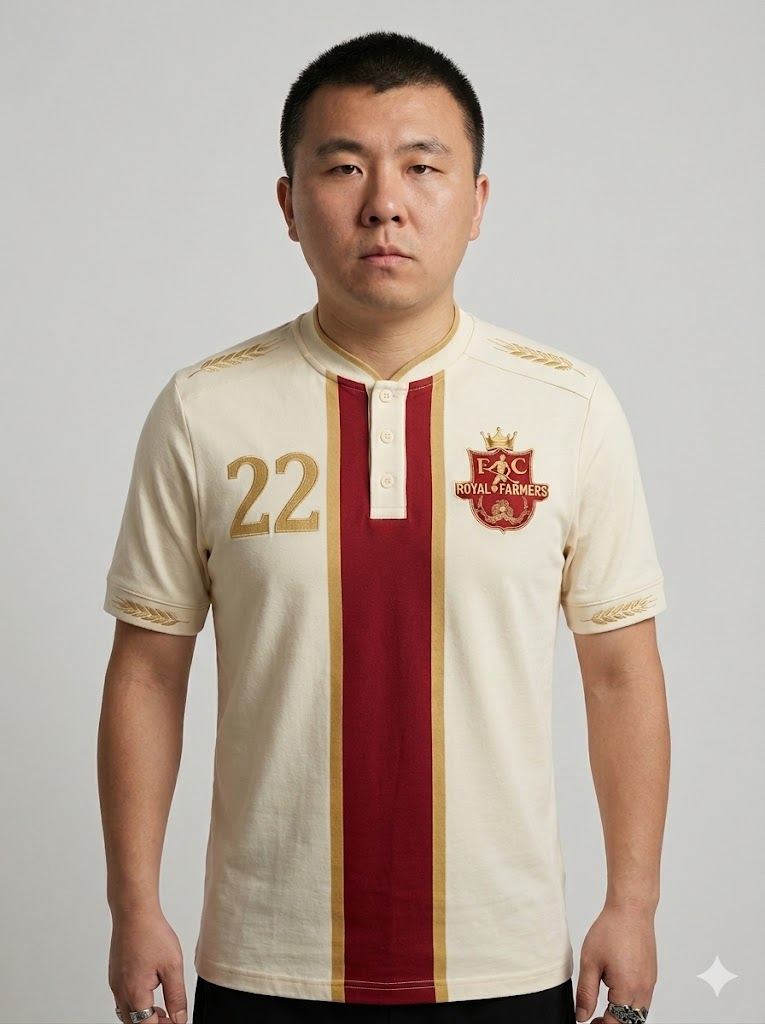
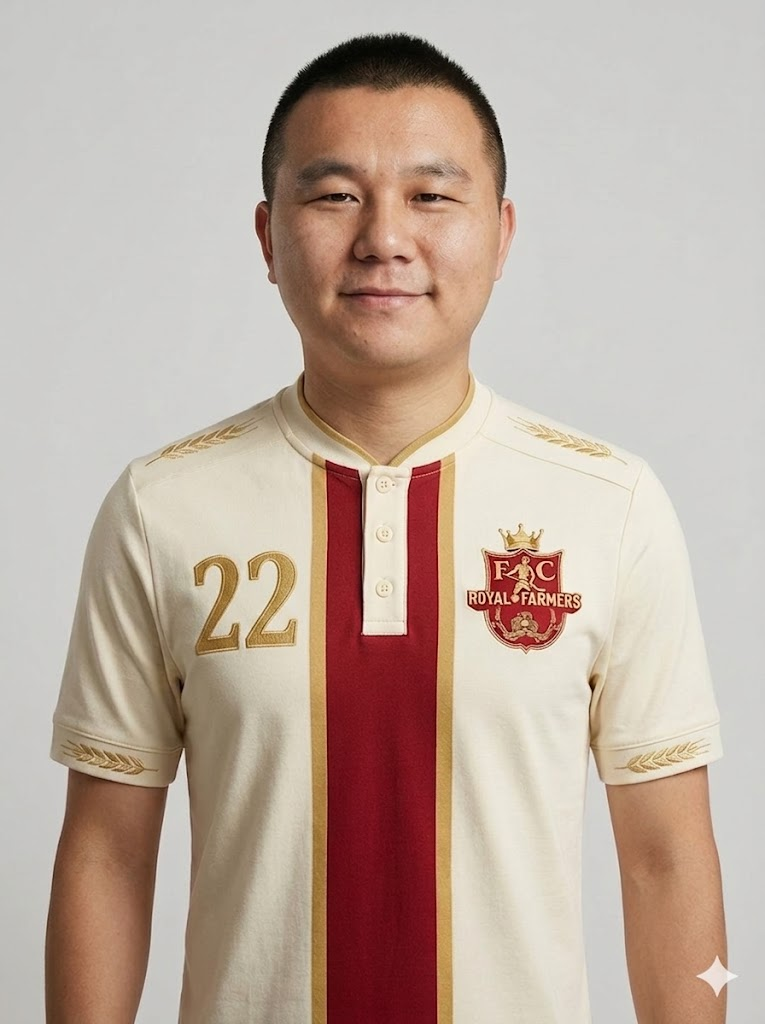
feat: 照片同步+JOE主页+化学反应bug修复+SUPER FARMER排序
照片更新（9张新增/重命名）：
- 新增 11号杨勇、15号陈彦孚、16号段晓敏、21号赵威、23号夏泉
  31号大宝、83号艾海提 的球员照片
- 22号麦超 → 1号麦超（球衣号更正）
- 41号老吴 → 41号吴能（真实姓名）
- data.jsx 中所有 photo 路径同步更新

JOE 个人主页修复：
- 全局统一 "Joe" → "JOE"（FIXTURES × 7处、月度助攻榜、PLAYER_CHEMISTRY）
- PLAYER_CHEMISTRY 中合并重复的 Joe/JOE 条目 → 助攻统计正确
- num 补全为 "37"

化学反应 bestP=worstP 修复：
- data.jsx：Python脚本清除11条仅有单一搭档导致最高=最低的错误 worstP
  （强尼二世/曹峰/朱艺华/李浩等）
- components.jsx：展示层额外防御判断（worstP.name !== bestP.name 才渲染）

优秀农民工 · SUPER FARMER 排序：
- PlayersCarousel 按 apps 出场数降序排列
- 10号姜珂固定置于最后（队长压轴）

diff --git a/data.jsx b/data.jsx
@@ -12,9 +12,9 @@ const PLAYERS = [
   { num: 4, name: "夏浩", pos: "后卫", birth: "—", nation: "中国", apps: 153, goals: 4, assists: 6, rating: 190.0, seasons: [{year:"2021",apps:48,goals:1,assists:1,rating:1.54},{year:"2022",apps:39,goals:1,assists:1,rating:0.79},{year:"2023",apps:19,goals:0,assists:0,rating:1.16},{year:"2024",apps:13,goals:0,assists:1,rating:1.31},{year:"2025",apps:26,goals:2,assists:1,rating:1.77},{year:"2026",apps:8,goals:0,assists:2,rating:1.5}], photo: "assets/players/14号夏浩.jpeg" },
   { num: 56, name: "朱寿卿", pos: "后卫", birth: "—", nation: "中国", apps: 76, goals: 7, assists: 31, rating: 79.0, seasons: [{year:"2021",apps:44,goals:6,assists:19,rating:1.41},{year:"2023",apps:6,goals:0,assists:2,rating:0.33},{year:"2024",apps:6,goals:1,assists:2,rating:0.67},{year:"2025",apps:7,goals:0,assists:2,rating:1.57},{year:"2026",apps:13,goals:0,assists:6,rating:1.46}], photo: "assets/players/56号朱寿卿.jpeg" },
   { num: 44, name: "倪海", pos: "前卫", birth: "—", nation: "中国", apps: 87, goals: 114, assists: 147, rating: 107.0, seasons: [{year:"2021",apps:3,goals:1,assists:1,rating:3.0},{year:"2023",apps:7,goals:13,assists:7,rating:1.86},{year:"2024",apps:16,goals:16,assists:19,rating:1.62},{year:"2025",apps:45,goals:57,assists:92,rating:1.31},{year:"2026",apps:16,goals:27,assists:28,rating:1.12}], photo: "assets/players/44号倪海.jpeg" },
-  { num: 41, name: "老吴", pos: "前卫", birth: "—", nation: "中国", apps: 17, goals: 5, assists: 10, rating: 21.0, seasons: [{year:"2021",apps:0,goals:0,assists:0,rating:null},{year:"2022",apps:0,goals:0,assists:0,rating:null},{year:"2023",apps:0,goals:0,assists:0,rating:null},{year:"2024",apps:0,goals:0,assists:0,rating:null},{year:"2025",apps:6,goals:3,assists:4,rating:2.33},{year:"2026",apps:11,goals:2,assists:6,rating:0.64}], photo: "assets/players/41号老吴.jpeg" },
+  { num: 41, name: "老吴", pos: "前卫", birth: "—", nation: "中国", apps: 17, goals: 5, assists: 10, rating: 21.0, seasons: [{year:"2021",apps:0,goals:0,assists:0,rating:null},{year:"2022",apps:0,goals:0,assists:0,rating:null},{year:"2023",apps:0,goals:0,assists:0,rating:null},{year:"2024",apps:0,goals:0,assists:0,rating:null},{year:"2025",apps:6,goals:3,assists:4,rating:2.33},{year:"2026",apps:11,goals:2,assists:6,rating:0.64}], photo: "assets/players/41号吴能.jpeg" },
   // ---- Remaining squad ----
-  { num: 1, name: "麦超", pos: "门将", birth: "—", nation: "中国", apps: 279, goals: 4, assists: 6, rating: 299.0, seasons: [{year:"2021",apps:24,goals:0,assists:0,rating:1.0},{year:"2022",apps:68,goals:1,assists:2,rating:1.41},{year:"2023",apps:78,goals:0,assists:2,rating:1.23},{year:"2024",apps:51,goals:2,assists:0,rating:0.8},{year:"2025",apps:38,goals:1,assists:2,rating:1.11},{year:"2026",apps:20,goals:0,assists:0,rating:1.7}], photo: "assets/players/22号麦超.jpeg" },
+  { num: 1, name: "麦超", pos: "门将", birth: "—", nation: "中国", apps: 279, goals: 4, assists: 6, rating: 299.0, seasons: [{year:"2021",apps:24,goals:0,assists:0,rating:1.0},{year:"2022",apps:68,goals:1,assists:2,rating:1.41},{year:"2023",apps:78,goals:0,assists:2,rating:1.23},{year:"2024",apps:51,goals:2,assists:0,rating:0.8},{year:"2025",apps:38,goals:1,assists:2,rating:1.11},{year:"2026",apps:20,goals:0,assists:0,rating:1.7}], photo: "assets/players/1号麦超.jpeg" },
   { num: 3, name: "老徐", pos: "后卫", birth: "—", nation: "中国", apps: 263, goals: 115, assists: 137, rating: 304.0, seasons: [{year:"2021",apps:7,goals:0,assists:0,rating:-0.14},{year:"2022",apps:45,goals:19,assists:19,rating:1.09},{year:"2023",apps:88,goals:41,assists:56,rating:1.49},{year:"2024",apps:84,goals:35,assists:36,rating:1.05},{year:"2025",apps:27,goals:17,assists:22,rating:1.37},{year:"2026",apps:12,goals:3,assists:4,rating:1.83}] },
   { num: 2, name: "曹峰", pos: "后卫", birth: "1976", nation: "中国", apps: 233, goals: 57, assists: 62, rating: 289.0, seasons: [{year:"2021",apps:63,goals:15,assists:16,rating:1.37},{year:"2022",apps:74,goals:15,assists:15,rating:1.34},{year:"2023",apps:49,goals:16,assists:12,rating:1.16},{year:"2024",apps:30,goals:3,assists:6,rating:0.73},{year:"2025",apps:17,goals:8,assists:13,rating:1.47}] },
   { num: 77, name: "张伟", pos: "前卫", birth: "—", nation: "中国", apps: 226, goals: 147, assists: 84, rating: 200.0, seasons: [{year:"2021",apps:40,goals:15,assists:11,rating:1.0},{year:"2022",apps:41,goals:30,assists:9,rating:0.63},{year:"2023",apps:37,goals:18,assists:6,rating:0.57},{year:"2024",apps:44,goals:29,assists:19,rating:1.36},{year:"2025",apps:41,goals:37,assists:25,rating:1.29},{year:"2026",apps:23,goals:18,assists:14,rating:1.61}], photo: "assets/players/17号张伟.jpeg" },
@@ -30,22 +30,22 @@ const PLAYERS = [
   { num: 48, name: "李渊", pos: "前卫", birth: "—", nation: "中国", apps: 108, goals: 78, assists: 58, rating: 124.0, seasons: [{year:"2021",apps:39,goals:35,assists:24,rating:1.38},{year:"2022",apps:17,goals:7,assists:5,rating:0.88},{year:"2023",apps:34,goals:28,assists:20,rating:1.12},{year:"2024",apps:15,goals:6,assists:9,rating:0.87},{year:"2025",apps:2,goals:2,assists:0,rating:2.0},{year:"2026",apps:1,goals:0,assists:0,rating:1.0}] },
   { num: 24, name: "陆晓巍", pos: "后卫", birth: "—", nation: "中国", apps: 101, goals: 4, assists: 14, rating: 91.0, seasons: [{year:"2021",apps:11,goals:0,assists:0,rating:0.45},{year:"2022",apps:14,goals:0,assists:5,rating:1.43},{year:"2023",apps:17,goals:1,assists:2,rating:1.0},{year:"2024",apps:33,goals:1,assists:4,rating:0.94},{year:"2025",apps:20,goals:2,assists:2,rating:0.9},{year:"2026",apps:6,goals:0,assists:1,rating:0.67}], photo: "assets/players/24号陆晓巍.jpeg" },
   { num: 88, name: "王积鹏", pos: "后卫", birth: "—", nation: "中国", apps: 91, goals: 40, assists: 23, rating: 110.0, seasons: [{year:"2021",apps:25,goals:10,assists:13,rating:1.52},{year:"2022",apps:15,goals:11,assists:5,rating:0.87},{year:"2023",apps:32,goals:14,assists:2,rating:1.16},{year:"2024",apps:15,goals:4,assists:1,rating:1.13},{year:"2025",apps:3,goals:1,assists:1,rating:1.67},{year:"2026",apps:1,goals:0,assists:1,rating:1.0}], photo: "assets/players/88号王积鹏.jpeg" },
-  { num: 21, name: "赵威", pos: "后卫", birth: "—", nation: "中国", apps: 88, goals: 23, assists: 20, rating: 53.0, seasons: [{year:"2021",apps:29,goals:6,assists:7,rating:0.72},{year:"2022",apps:15,goals:7,assists:5,rating:0.6},{year:"2023",apps:12,goals:2,assists:3,rating:0.17},{year:"2024",apps:16,goals:5,assists:3,rating:0.62},{year:"2025",apps:7,goals:3,assists:1,rating:1.57},{year:"2026",apps:9,goals:0,assists:1,rating:0.11}] },
+  { num: 21, name: "赵威", pos: "后卫", birth: "—", nation: "中国", apps: 88, goals: 23, assists: 20, rating: 53.0, seasons: [{year:"2021",apps:29,goals:6,assists:7,rating:0.72},{year:"2022",apps:15,goals:7,assists:5,rating:0.6},{year:"2023",apps:12,goals:2,assists:3,rating:0.17},{year:"2024",apps:16,goals:5,assists:3,rating:0.62},{year:"2025",apps:7,goals:3,assists:1,rating:1.57},{year:"2026",apps:9,goals:0,assists:1,rating:0.11}], photo: "assets/players/21号赵威.jpeg" },
   { num: 43, name: "傅于", pos: "后卫", birth: "—", nation: "中国", apps: 85, goals: 15, assists: 36, rating: 88.0, seasons: [{year:"2021",apps:20,goals:4,assists:9,rating:0.25},{year:"2022",apps:44,goals:6,assists:18,rating:1.41},{year:"2023",apps:20,goals:5,assists:9,rating:1.0},{year:"2024",apps:1,goals:0,assists:0,rating:1.0}] },
   { num: 17, name: "童超", pos: "前卫", birth: "—", nation: "中国", apps: 89, goals: 76, assists: 76, rating: 105.0, seasons: [{year:"2021",apps:39,goals:37,assists:39,rating:1.38},{year:"2022",apps:23,goals:18,assists:10,rating:1.43},{year:"2023",apps:5,goals:1,assists:2,rating:1.0},{year:"2024",apps:10,goals:9,assists:15,rating:0.8},{year:"2025",apps:7,goals:6,assists:8,rating:0.71},{year:"2026",apps:5,goals:5,assists:2,rating:0.6}] },
-  { num: 11, name: "杨勇", pos: "后卫", birth: "—", nation: "中国", apps: 80, goals: 16, assists: 22, rating: 100.0, seasons: [{year:"2021",apps:28,goals:4,assists:9,rating:1.89},{year:"2022",apps:35,goals:7,assists:8,rating:1.26},{year:"2023",apps:15,goals:5,assists:5,rating:0.33},{year:"2024",apps:2,goals:0,assists:0,rating:-1.0}] },
-  { num: 23, name: "夏泉", pos: "后卫", birth: "—", nation: "中国", apps: 80, goals: 17, assists: 33, rating: 75.0, seasons: [{year:"2021",apps:41,goals:5,assists:19,rating:1.1},{year:"2022",apps:21,goals:3,assists:8,rating:0.9},{year:"2023",apps:9,goals:6,assists:4,rating:1.0},{year:"2024",apps:5,goals:2,assists:1,rating:1.0},{year:"2025",apps:3,goals:1,assists:1,rating:-1.0},{year:"2026",apps:1,goals:0,assists:0,rating:3.0}] },
-  { num: 15, name: "陈彦孚", pos: "前锋", birth: "1988", nation: "中国", apps: 78, goals: 85, assists: 48, rating: 114.0, seasons: [{year:"2021",apps:31,goals:46,assists:20,rating:1.52},{year:"2022",apps:39,goals:28,assists:22,rating:1.56},{year:"2023",apps:8,goals:11,assists:6,rating:0.75}] },
+  { num: 11, name: "杨勇", pos: "后卫", birth: "—", nation: "中国", apps: 80, goals: 16, assists: 22, rating: 100.0, seasons: [{year:"2021",apps:28,goals:4,assists:9,rating:1.89},{year:"2022",apps:35,goals:7,assists:8,rating:1.26},{year:"2023",apps:15,goals:5,assists:5,rating:0.33},{year:"2024",apps:2,goals:0,assists:0,rating:-1.0}], photo: "assets/players/11号杨勇.jpeg" },
+  { num: 23, name: "夏泉", pos: "后卫", birth: "—", nation: "中国", apps: 80, goals: 17, assists: 33, rating: 75.0, seasons: [{year:"2021",apps:41,goals:5,assists:19,rating:1.1},{year:"2022",apps:21,goals:3,assists:8,rating:0.9},{year:"2023",apps:9,goals:6,assists:4,rating:1.0},{year:"2024",apps:5,goals:2,assists:1,rating:1.0},{year:"2025",apps:3,goals:1,assists:1,rating:-1.0},{year:"2026",apps:1,goals:0,assists:0,rating:3.0}], photo: "assets/players/23号夏泉.jpeg" },
+  { num: 15, name: "陈彦孚", pos: "前锋", birth: "1988", nation: "中国", apps: 78, goals: 85, assists: 48, rating: 114.0, seasons: [{year:"2021",apps:31,goals:46,assists:20,rating:1.52},{year:"2022",apps:39,goals:28,assists:22,rating:1.56},{year:"2023",apps:8,goals:11,assists:6,rating:0.75}], photo: "assets/players/15号陈彦孚.jpeg" },
   { num: 29, name: "刘洋", pos: "前卫", birth: "—", nation: "中国", apps: 83, goals: 212, assists: 71, rating: 146.0, seasons: [{year:"2021",apps:15,goals:36,assists:10,rating:1.27},{year:"2022",apps:17,goals:45,assists:11,rating:2.41},{year:"2023",apps:14,goals:28,assists:9,rating:1.93},{year:"2024",apps:19,goals:40,assists:13,rating:1.84},{year:"2025",apps:12,goals:49,assists:16,rating:2.0},{year:"2026",apps:6,goals:14,assists:12,rating:1.67}] },
   { num: 32, name: "朱艺华", pos: "后卫", birth: "—", nation: "中国", apps: 74, goals: 2, assists: 3, rating: 51.0, seasons: [{year:"2021",apps:8,goals:0,assists:0,rating:-0.25},{year:"2022",apps:24,goals:0,assists:0,rating:1.21},{year:"2023",apps:29,goals:2,assists:2,rating:0.45},{year:"2024",apps:13,goals:0,assists:1,rating:0.85}] },
   { num: 68, name: "王刚", pos: "后卫", birth: "—", nation: "中国", apps: 71, goals: 4, assists: 12, rating: 73.0, seasons: [{year:"2021",apps:22,goals:2,assists:1,rating:1.41},{year:"2022",apps:16,goals:1,assists:8,rating:1.0},{year:"2023",apps:15,goals:1,assists:1,rating:1.07},{year:"2024",apps:10,goals:0,assists:0,rating:-0.2},{year:"2025",apps:8,goals:0,assists:2,rating:1.5}], photo: "assets/players/68号王刚.jpeg" },
   { num: 14, name: "陆扬", pos: "前锋", birth: "—", nation: "中国", apps: 54, goals: 45, assists: 19, rating: 59.0, seasons: [{year:"2021",apps:26,goals:31,assists:12,rating:1.12},{year:"2022",apps:24,goals:12,assists:6,rating:1.33},{year:"2023",apps:4,goals:2,assists:1,rating:-0.5}] },
   { num: 74, name: "虞虎杰", pos: "后卫", birth: "—", nation: "中国", apps: 51, goals: 55, assists: 18, rating: 65.0, seasons: [{year:"2021",apps:20,goals:21,assists:11,rating:1.2},{year:"2022",apps:27,goals:26,assists:6,rating:1.37},{year:"2023",apps:4,goals:8,assists:1,rating:1.0}] },
-  { num: 16, name: "小段", pos: "前卫", birth: "—", nation: "中国", apps: 48, goals: 88, assists: 43, rating: 76.0, seasons: [{year:"2021",apps:13,goals:24,assists:7,rating:1.62},{year:"2022",apps:30,goals:56,assists:30,rating:1.67},{year:"2023",apps:3,goals:5,assists:5,rating:1.0},{year:"2024",apps:2,goals:3,assists:1,rating:1.0}] },
+  { num: 16, name: "小段", pos: "前卫", birth: "—", nation: "中国", apps: 48, goals: 88, assists: 43, rating: 76.0, seasons: [{year:"2021",apps:13,goals:24,assists:7,rating:1.62},{year:"2022",apps:30,goals:56,assists:30,rating:1.67},{year:"2023",apps:3,goals:5,assists:5,rating:1.0},{year:"2024",apps:2,goals:3,assists:1,rating:1.0}], photo: "assets/players/16号段晓敏.jpeg" },
   { num: 12, name: "凌晶", pos: "后卫", birth: "—", nation: "中国", apps: 51, goals: 2, assists: 7, rating: 36.0, seasons: [{year:"2021",apps:10,goals:0,assists:1,rating:0.4},{year:"2022",apps:23,goals:1,assists:2,rating:0.83},{year:"2023",apps:6,goals:0,assists:0,rating:1.33},{year:"2024",apps:5,goals:0,assists:3,rating:1.0},{year:"2025",apps:2,goals:0,assists:0,rating:0.0},{year:"2026",apps:5,goals:1,assists:1,rating:1.8}] },
   { num: 27, name: "孔垂圣", pos: "前卫", birth: "—", nation: "中国", apps: 45, goals: 56, assists: 56, rating: 57.0, seasons: [{year:"2021",apps:11,goals:13,assists:18,rating:1.55},{year:"2022",apps:10,goals:9,assists:12,rating:0.8},{year:"2023",apps:11,goals:12,assists:14,rating:0.82},{year:"2024",apps:10,goals:15,assists:5,rating:2.0},{year:"2025",apps:1,goals:2,assists:3,rating:3.0},{year:"2026",apps:2,goals:5,assists:4,rating:1.0}] },
   { num: 13, name: "小吴", pos: "门将", birth: "—", nation: "中国", apps: 42, goals: 0, assists: 3, rating: 48.0, seasons: [{year:"2021",apps:6,goals:0,assists:1,rating:1.17},{year:"2022",apps:25,goals:0,assists:1,rating:1.36},{year:"2023",apps:11,goals:0,assists:1,rating:0.64}] },
-  { num: 31, name: "大宝", pos: "前锋", birth: "—", nation: "中国", apps: 38, goals: 24, assists: 19, rating: 20.0, seasons: [{year:"2021",apps:15,goals:20,assists:10,rating:0.87},{year:"2022",apps:13,goals:4,assists:7,rating:0.38},{year:"2023",apps:7,goals:0,assists:1,rating:0.43},{year:"2024",apps:1,goals:0,assists:1,rating:-1.0},{year:"2025",apps:2,goals:0,assists:0,rating:0.0}] },
+  { num: 31, name: "大宝", pos: "前锋", birth: "—", nation: "中国", apps: 38, goals: 24, assists: 19, rating: 20.0, seasons: [{year:"2021",apps:15,goals:20,assists:10,rating:0.87},{year:"2022",apps:13,goals:4,assists:7,rating:0.38},{year:"2023",apps:7,goals:0,assists:1,rating:0.43},{year:"2024",apps:1,goals:0,assists:1,rating:-1.0},{year:"2025",apps:2,goals:0,assists:0,rating:0.0}], photo: "assets/players/31号大宝.jpeg" },
   { num: 9, name: "Andy", pos: "前锋", birth: "—", nation: "中国", apps: 35, goals: 20, assists: 14, rating: 27.0, seasons: [{year:"2021",apps:18,goals:14,assists:11,rating:1.33},{year:"2022",apps:14,goals:5,assists:2,rating:0.29},{year:"2023",apps:2,goals:1,assists:1,rating:0.0},{year:"2025",apps:1,goals:0,assists:0,rating:-1.0}] },
   { num: 28, name: "宫磊", pos: "前卫", birth: "—", nation: "中国", apps: 35, goals: 29, assists: 11, rating: 18.0, seasons: [{year:"2022",apps:21,goals:19,assists:7,rating:0.29},{year:"2023",apps:14,goals:10,assists:4,rating:0.86}] },
   { num: 85, name: "张一君", pos: "后卫", birth: "—", nation: "中国", apps: 35, goals: 7, assists: 9, rating: 30.0, seasons: [{year:"2021",apps:18,goals:5,assists:6,rating:1.17},{year:"2022",apps:10,goals:1,assists:1,rating:0.4},{year:"2023",apps:7,goals:1,assists:2,rating:0.71}] },
@@ -123,27 +123,27 @@ const SEASONS = ["总榜", "2026", "2025", "2024", "2023", "2022", "2021"];
 
 const FIXTURES = [
   // 2026.06.06
-  { date: "2026.06.06", home: "Royal Farmers蓝队", homeScore: 0, awayScore: 2, away: "Royal Farmers红队", comp: "内部友谊赛（三队）", result: "L", venue: "台地花园球场", homeScorers: [], awayScorers: ["金辉","刘洋"], homeAssists: [], awayAssists: ["鲍梁剑","Joe"] },
+  { date: "2026.06.06", home: "Royal Farmers蓝队", homeScore: 0, awayScore: 2, away: "Royal Farmers红队", comp: "内部友谊赛（三队）", result: "L", venue: "台地花园球场", homeScorers: [], awayScorers: ["金辉","刘洋"], homeAssists: [], awayAssists: ["鲍梁剑","JOE"] },
   { date: "2026.06.06", home: "Royal Farmers蓝队", homeScore: 1, awayScore: 2, away: "Royal Farmers白队", comp: "内部友谊赛（三队）", result: "L", venue: "台地花园球场", homeScorers: ["倪海"], awayScorers: ["强尼二世","刘洋带来的0606的新人"], homeAssists: ["黄纲"], awayAssists: ["朱寿卿","邓涛"] },
   { date: "2026.06.06", home: "Royal Farmers红队", homeScore: 2, awayScore: 2, away: "Royal Farmers白队", comp: "内部友谊赛（三队）", result: "D", venue: "台地花园球场", homeScorers: ["刘洋","金辉"], awayScorers: ["强尼二世","jimmy"], homeAssists: ["金辉","刘洋"], awayAssists: ["朱寿卿","邱天乐"] },
   { date: "2026.06.06", home: "Royal Farmers红队", homeScore: 1, awayScore: 2, away: "Royal Farmers蓝队", comp: "内部友谊赛（三队）", result: "L", venue: "台地花园球场", homeScorers: ["金辉"], awayScorers: ["倪海","张毅达"], homeAssists: ["王积鹏"], awayAssists: ["潘磊"] },
   { date: "2026.06.06", home: "Royal Farmers白队", homeScore: 0, awayScore: 0, away: "Royal Farmers蓝队", comp: "内部友谊赛（三队）", result: "D", venue: "台地花园球场", homeScorers: [], awayScorers: [], homeAssists: [], awayAssists: [] },
-  { date: "2026.06.06", home: "Royal Farmers白队", homeScore: 1, awayScore: 1, away: "Royal Farmers红队", comp: "内部友谊赛（三队）", result: "D", venue: "台地花园球场", homeScorers: ["邓涛"], awayScorers: ["刘洋"], homeAssists: [], awayAssists: ["Joe"] },
+  { date: "2026.06.06", home: "Royal Farmers白队", homeScore: 1, awayScore: 1, away: "Royal Farmers红队", comp: "内部友谊赛（三队）", result: "D", venue: "台地花园球场", homeScorers: ["邓涛"], awayScorers: ["刘洋"], homeAssists: [], awayAssists: ["JOE"] },
   // 2026.06.04
   { date: "2026.06.04", home: "Royal Farmers蓝队", homeScore: 11, awayScore: 8, away: "Fm爆棚汉化组", comp: "外部友谊赛（两队）", result: "W", venue: "台地花园球场", homeScorers: ["姜珂","潘磊","倪海","姜珂","姜珂","潘磊","倪海","金辉","金辉","金辉","金辉"], awayScorers: [], homeAssists: ["潘磊","姜珂","姜珂","潘磊","倪海","max师傅","姜珂","姜珂","姜珂","姜珂","姜珂"], awayAssists: [] },
   // 2026.05.30
   { date: "2026.05.30", home: "Royal Farmers白队", homeScore: 2, awayScore: 0, away: "刘队的红队", comp: "外部友谊赛（三队）", result: "W", venue: "台地花园球场", homeScorers: ["姜珂","强尼二世"], awayScorers: [], homeAssists: ["姜珂"], awayAssists: [] },
   { date: "2026.05.30", home: "Royal Farmers白队", homeScore: 1, awayScore: 3, away: "Royal Farmers蓝队", comp: "外部友谊赛（三队）", result: "L", venue: "台地花园球场", homeScorers: ["倪海"], awayScorers: ["姜珂","姜珂","潘磊"], homeAssists: [], awayAssists: ["潘磊"] },
-  { date: "2026.05.30", home: "刘队的红队", homeScore: 2, awayScore: 4, away: "Royal Farmers蓝队", comp: "外部友谊赛（三队）", result: "L", venue: "台地花园球场", homeScorers: [], awayScorers: ["金辉","姜珂","潘磊","姜珂"], homeAssists: [], awayAssists: ["姜珂","Joe","姜珂","金辉"] },
+  { date: "2026.05.30", home: "刘队的红队", homeScore: 2, awayScore: 4, away: "Royal Farmers蓝队", comp: "外部友谊赛（三队）", result: "L", venue: "台地花园球场", homeScorers: [], awayScorers: ["金辉","姜珂","潘磊","姜珂"], homeAssists: [], awayAssists: ["姜珂","JOE","姜珂","金辉"] },
   { date: "2026.05.30", home: "刘队的红队", homeScore: 3, awayScore: 0, away: "Royal Farmers白队", comp: "外部友谊赛（三队）", result: "W", venue: "台地花园球场", homeScorers: [], awayScorers: [], homeAssists: [], awayAssists: [] },
-  { date: "2026.05.30", home: "Royal Farmers蓝队", homeScore: 3, awayScore: 1, away: "Royal Farmers白队", comp: "外部友谊赛（三队）", result: "W", venue: "台地花园球场", homeScorers: ["Joe","潘磊","金辉"], awayScorers: ["强尼二世"], homeAssists: ["姜珂","姜珂","Joe"], awayAssists: ["倪海"] },
-  { date: "2026.05.30", home: "Royal Farmers蓝队", homeScore: 3, awayScore: 3, away: "刘队的红队", comp: "外部友谊赛（三队）", result: "D", venue: "台地花园球场", homeScorers: ["Joe","姜珂","姜珂"], awayScorers: [], homeAssists: ["姜珂","潘磊","Joe"], awayAssists: [] },
+  { date: "2026.05.30", home: "Royal Farmers蓝队", homeScore: 3, awayScore: 1, away: "Royal Farmers白队", comp: "外部友谊赛（三队）", result: "W", venue: "台地花园球场", homeScorers: ["JOE","潘磊","金辉"], awayScorers: ["强尼二世"], homeAssists: ["姜珂","姜珂","JOE"], awayAssists: ["倪海"] },
+  { date: "2026.05.30", home: "Royal Farmers蓝队", homeScore: 3, awayScore: 3, away: "刘队的红队", comp: "外部友谊赛（三队）", result: "D", venue: "台地花园球场", homeScorers: ["JOE","姜珂","姜珂"], awayScorers: [], homeAssists: ["姜珂","潘磊","JOE"], awayAssists: [] },
   // 2026.05.28
   { date: "2026.05.28", home: "Royal Farmers蓝队", homeScore: 13, awayScore: 7, away: "小红书", comp: "外部友谊赛（两队）", result: "W", venue: "台地花园球场", homeScorers: ["倪海","新人汤姆","潘磊","杨坤","潘磊","倪海","潘磊","张伟","拿球闷人的技术优秀的小伙","罗玛尼","张伟","罗玛尼","罗玛尼"], awayScorers: [], homeAssists: ["张伟","倪海","孙浩宇","倪海","倪海","倪海","潘磊","拿球闷人的技术优秀的小伙","新人汤姆"], awayAssists: [] },
   // 2026.05.23
   { date: "2026.05.23", home: "Royal Farmers蓝队", homeScore: 5, awayScore: 2, away: "Royal Farmers红队", comp: "内部友谊赛（三队）", result: "W", venue: "台地花园球场", homeScorers: ["童超","强尼二世","倪海","鲍梁剑","强尼二世"], awayScorers: ["姜珂","姜珂"], homeAssists: ["强尼二世","倪海","赵威","倪海","潘磊"], awayAssists: ["黄纲","金辉"] },
   { date: "2026.05.23", home: "Royal Farmers蓝队", homeScore: 1, awayScore: 4, away: "Royal Farmers白队", comp: "内部友谊赛（三队）", result: "L", venue: "台地花园球场", homeScorers: ["强尼二世"], awayScorers: ["艾海提","艾海提","Devil","艾海提"], homeAssists: [], awayAssists: ["姜珂","罗玛尼"] },
-  { date: "2026.05.23", home: "Royal Farmers红队", homeScore: 2, awayScore: 2, away: "Royal Farmers白队", comp: "内部友谊赛（三队）", result: "D", venue: "台地花园球场", homeScorers: ["姜珂","Jimmy"], awayScorers: ["艾海提","Joe"], homeAssists: ["杨坤"], awayAssists: ["艾海提"] },
+  { date: "2026.05.23", home: "Royal Farmers红队", homeScore: 2, awayScore: 2, away: "Royal Farmers白队", comp: "内部友谊赛（三队）", result: "D", venue: "台地花园球场", homeScorers: ["姜珂","Jimmy"], awayScorers: ["艾海提","JOE"], homeAssists: ["杨坤"], awayAssists: ["艾海提"] },
   { date: "2026.05.23", home: "Royal Farmers红队", homeScore: 3, awayScore: 0, away: "Royal Farmers蓝队", comp: "内部友谊赛（三队）", result: "W", venue: "台地花园球场", homeScorers: ["姜珂","姜珂","杨坤"], awayScorers: [], homeAssists: ["黄纲","杨坤","Jimmy"], awayAssists: [] },
   { date: "2026.05.23", home: "Royal Farmers白队", homeScore: 4, awayScore: 0, away: "Royal Farmers蓝队", comp: "内部友谊赛（三队）", result: "W", venue: "台地花园球场", homeScorers: ["姜珂","姜珂","devil","Jimmy"], awayScorers: [], homeAssists: ["金辉","devil","姜珂","姜珂"], awayAssists: [] },
   { date: "2026.05.23", home: "Royal Farmers白队", homeScore: 3, awayScore: 2, away: "Royal Farmers红队", comp: "内部友谊赛（三队）", result: "W", venue: "台地花园球场", homeScorers: ["devil","潘磊","倪海"], awayScorers: ["姜珂","姜珂"], homeAssists: ["倪海","朱寿卿","devil"], awayAssists: ["金辉","杨坤"] },
@@ -178,7 +178,7 @@ const FIXTURES = [
   // 2026.04.16
   { date: "2026.04.16", home: "Royal Farmers蓝队", homeScore: 17, awayScore: 3, away: "小红书", comp: "外部友谊赛（两队）", result: "W", venue: "台地花园球场", homeScorers: ["刘立宇","姜珂","姜珂","潘磊","潘磊","姜珂","姜珂","艾海提","金辉","艾海提","潘磊","艾海提","艾海提","姜珂","艾海提","姜珂","杨坤","艾海提"], awayScorers: [], homeAssists: ["金辉","金辉","姜珂","姚魏","潘磊","金辉","金辉","姚魏","金辉","艾海提","姜珂","艾海提","刘洋","姜珂"], awayAssists: [] },
   // 2026.04.11
-  { date: "2026.04.11", home: "Royal Farmers白队", homeScore: 2, awayScore: 2, away: "Royal Farmers蓝队", comp: "外部友谊赛（三队）", result: "D", venue: "台地花园球场", homeScorers: ["姜珂","Janus"], awayScorers: ["红队的胖Tommy","红队的胖Tommy"], homeAssists: ["Joe","张伟"], awayAssists: ["吴从宝","邓涛"] },
+  { date: "2026.04.11", home: "Royal Farmers白队", homeScore: 2, awayScore: 2, away: "Royal Farmers蓝队", comp: "外部友谊赛（三队）", result: "D", venue: "台地花园球场", homeScorers: ["姜珂","Janus"], awayScorers: ["红队的胖Tommy","红队的胖Tommy"], homeAssists: ["JOE","张伟"], awayAssists: ["吴从宝","邓涛"] },
   { date: "2026.04.11", home: "刘队的红队", homeScore: 1, awayScore: 2, away: "Royal Farmers蓝队", comp: "外部友谊赛（三队）", result: "L", venue: "台地花园球场", homeScorers: [], awayScorers: ["凌晶","吴从宝"], homeAssists: [], awayAssists: ["圣托尔多"] },
   { date: "2026.04.11", home: "刘队的红队", homeScore: 0, awayScore: 5, away: "Royal Farmers白队", comp: "外部友谊赛（三队）", result: "L", venue: "台地花园球场", homeScorers: [], awayScorers: ["金辉","Janus","Janus","金辉","金辉"], homeAssists: [], awayAssists: ["金辉","姜珂","张伟","姜珂"] },
   { date: "2026.04.11", home: "Royal Farmers蓝队", homeScore: 1, awayScore: 3, away: "Royal Farmers白队", comp: "外部友谊赛（三队）", result: "L", venue: "台地花园球场", homeScorers: ["彭利平"], awayScorers: ["Janus","金辉","金辉"], homeAssists: ["凌晶"], awayAssists: ["姜珂","Janus"] },
@@ -282,7 +282,7 @@ const PLAYER_LOOKUP = {
   "强尼二世": {name:"强尼二世",num:87,pos:"前锋",birth:"—",nation:"中国",apps:57,goals:81,assists:21,seasons:[{year:"2021",apps:0,goals:0,assists:0,rating:null},{year:"2022",apps:10,goals:11,assists:0,rating:1.4},{year:"2023",apps:15,goals:14,assists:7,rating:1.0},{year:"2024",apps:14,goals:20,assists:7,rating:1.43},{year:"2025",apps:10,goals:21,assists:4,rating:1.0},{year:"2026",apps:8,goals:15,assists:3,rating:1.57}]},
   "潘磊": {name:"潘磊",num:94,pos:"前锋",birth:"—",nation:"中国",apps:175,goals:347,assists:229,seasons:[{year:"2021",apps:0,goals:0,assists:0,rating:null},{year:"2022",apps:0,goals:0,assists:0,rating:null},{year:"2023",apps:23,goals:16,assists:17,rating:1.09},{year:"2024",apps:78,goals:128,assists:78,rating:1.31},{year:"2025",apps:44,goals:115,assists:86,rating:1.86},{year:"2026",apps:30,goals:88,assists:48,rating:1.86}]},
   "红队德罗巴": {name:"红队德罗巴",pos:"前锋",birth:"—",nation:"中国",apps:9,goals:17,assists:13,seasons:[{year:"2021",apps:0,goals:0,assists:0,rating:null},{year:"2022",apps:0,goals:0,assists:0,rating:null},{year:"2023",apps:0,goals:0,assists:0,rating:null},{year:"2024",apps:0,goals:0,assists:0,rating:null},{year:"2025",apps:6,goals:12,assists:4,rating:-0.33},{year:"2026",apps:3,goals:5,assists:9,rating:1.67}]},
-  "艾海提": {name:"艾海提",num:83,pos:"前卫",birth:"—",nation:"中国",apps:53,goals:139,assists:80,seasons:[{year:"2021",apps:0,goals:0,assists:0,rating:null},{year:"2022",apps:0,goals:0,assists:0,rating:null},{year:"2023",apps:4,goals:3,assists:6,rating:2.5},{year:"2024",apps:19,goals:38,assists:27,rating:1.84},{year:"2025",apps:21,goals:71,assists:37,rating:2.14},{year:"2026",apps:9,goals:27,assists:10,rating:1.0}]},
+  "艾海提": {name:"艾海提",num:83,pos:"前卫",birth:"—",nation:"中国",apps:53,goals:139,assists:80,photo:"assets/players/83号艾海提.jpeg",seasons:[{year:"2021",apps:0,goals:0,assists:0,rating:null},{year:"2022",apps:0,goals:0,assists:0,rating:null},{year:"2023",apps:4,goals:3,assists:6,rating:2.5},{year:"2024",apps:19,goals:38,assists:27,rating:1.84},{year:"2025",apps:21,goals:71,assists:37,rating:2.14},{year:"2026",apps:9,goals:27,assists:10,rating:1.0}]},
   "邓涛": {name:"邓涛",num:93,pos:"前卫",birth:"—",nation:"中国",apps:105,goals:55,assists:40,seasons:[{year:"2021",apps:8,goals:3,assists:0,rating:1.25},{year:"2022",apps:23,goals:12,assists:10,rating:1.0},{year:"2023",apps:23,goals:10,assists:5,rating:0.7},{year:"2024",apps:24,goals:16,assists:10,rating:1.0},{year:"2025",apps:13,goals:9,assists:4,rating:0.54},{year:"2026",apps:14,goals:5,assists:11,rating:1.0}]},
   "薛峰": {name:"薛峰",num:76,pos:"前卫",birth:"—",nation:"中国",apps:91,goals:12,assists:17,photo:"assets/players/76号薛峰.jpeg",seasons:[]},
   "圣托尔多": {name:"圣托尔多",num:92,pos:"后卫",birth:"—",nation:"中国",apps:17,goals:0,assists:1,photo:"assets/players/92号圣托尔多.jpeg",seasons:[]},
@@ -380,7 +380,7 @@ const PLAYER_LOOKUP = {
   "白队的10号小个子中卫": {name:"白队的10号小个子中卫",num:"",pos:"后卫",birth:"—",nation:"中国",apps:5,goals:1,assists:1,seasons:[{year:"2023",apps:5,goals:1,assists:1,rating:1.4}]},
   "小罗": {name:"小罗",num:"",pos:"—",birth:"—",nation:"中国",apps:5,goals:2,assists:1,seasons:[{year:"2024",apps:5,goals:2,assists:1,rating:1.8}]},
   "王珺": {name:"王珺",num:"",pos:"—",birth:"—",nation:"中国",apps:5,goals:2,assists:1,seasons:[{year:"2024",apps:5,goals:2,assists:1,rating:0.2}]},
-  "段晓敏": {name:"段晓敏",num:16,pos:"前卫",birth:"—",nation:"中国",apps:48,goals:88,assists:43,seasons:[{year:"2021",apps:13,goals:24,assists:7,rating:1.62},{year:"2022",apps:30,goals:56,assists:30,rating:1.67},{year:"2023",apps:3,goals:5,assists:5,rating:1.0},{year:"2024",apps:2,goals:3,assists:1,rating:1.0}]},
+  "段晓敏": {name:"段晓敏",num:16,pos:"前卫",birth:"—",nation:"中国",apps:48,goals:88,assists:43,photo:"assets/players/16号段晓敏.jpeg",seasons:[{year:"2021",apps:13,goals:24,assists:7,rating:1.62},{year:"2022",apps:30,goals:56,assists:30,rating:1.67},{year:"2023",apps:3,goals:5,assists:5,rating:1.0},{year:"2024",apps:2,goals:3,assists:1,rating:1.0}]},
 };
 
 const MONTHLY_PERIOD = "2026年6月";
@@ -395,7 +395,7 @@ const MONTHLY_GOALS = [
 const MONTHLY_ASSISTS = [
   {name:"姜珂", num:"10", assists:7},
   {name:"潘磊", num:"94", assists:3},
-  {name:"Joe", num:"", assists:2},
+  {name:"JOE", num:"37", assists:2},
   {name:"朱寿卿", num:"56", assists:2},
   {name:"鲍梁剑", num:"22", assists:1},
 ];
@@ -1340,7 +1340,7 @@ const PLAYER_HONORS = {
 };
 
 const MONTHLY_HISTORY = [
-  { period: "2026年6月", goals: [{name:"金辉", num:"81", goals:7}, {name:"倪海", num:"44", goals:4}, {name:"刘洋", num:"29", goals:3}, {name:"姜珂", num:"10", goals:3}, {name:"强尼二世", num:"87", goals:2}], assists: [{name:"姜珂", num:"10", assists:7}, {name:"潘磊", num:"94", assists:3}, {name:"Joe", num:"", assists:2}, {name:"朱寿卿", num:"56", assists:2}, {name:"鲍梁剑", num:"22", assists:1}], apps: [{name:"倪海", num:"44", apps:4}, {name:"金辉", num:"81", apps:4}, {name:"潘磊", num:"94", apps:3}, {name:"罗玛尼", num:"", apps:2}, {name:"胡磊", num:"91", apps:2}] },
+  { period: "2026年6月", goals: [{name:"金辉", num:"81", goals:7}, {name:"倪海", num:"44", goals:4}, {name:"刘洋", num:"29", goals:3}, {name:"姜珂", num:"10", goals:3}, {name:"强尼二世", num:"87", goals:2}], assists: [{name:"姜珂", num:"10", assists:7}, {name:"潘磊", num:"94", assists:3}, {name:"JOE", num:"37", assists:2}, {name:"朱寿卿", num:"56", assists:2}, {name:"鲍梁剑", num:"22", assists:1}], apps: [{name:"倪海", num:"44", apps:4}, {name:"金辉", num:"81", apps:4}, {name:"潘磊", num:"94", apps:3}, {name:"罗玛尼", num:"", apps:2}, {name:"胡磊", num:"91", apps:2}] },
   { period: "2026年5月", goals: [{name:"姜珂", num:"10", goals:37}, {name:"潘磊", num:"94", goals:22}, {name:"金辉", num:"81", goals:19}, {name:"倪海", num:"44", goals:17}, {name:"艾海提", num:"83", goals:8}], assists: [{name:"姜珂", num:"10", assists:38}, {name:"倪海", num:"44", assists:23}, {name:"潘磊", num:"94", assists:8}, {name:"金辉", num:"81", assists:8}, {name:"杨坤", num:"8", assists:4}], apps: [{name:"倪海", num:"44", apps:9}, {name:"金辉", num:"81", apps:9}, {name:"姜珂", num:"10", apps:8}, {name:"潘磊", num:"94", apps:7}, {name:"严俊", num:"39", apps:5}] },
   { period: "2026年4月", goals: [{name:"金辉", num:"81", goals:33}, {name:"姜珂", num:"10", goals:27}, {name:"潘磊", num:"94", goals:23}, {name:"杨坤", num:"8", goals:8}, {name:"倪海", num:"44", goals:6}], assists: [{name:"姜珂", num:"10", assists:39}, {name:"金辉", num:"81", assists:14}, {name:"潘磊", num:"94", assists:9}, {name:"倪海", num:"44", assists:5}, {name:"杨坤", num:"8", assists:4}], apps: [{name:"金辉", num:"81", apps:8}, {name:"姜珂", num:"10", apps:7}, {name:"潘磊", num:"94", apps:6}, {name:"邓涛", num:"93", apps:5}, {name:"杨坤", num:"8", apps:5}] },
   { period: "2026年3月", goals: [{name:"潘磊", num:"94", goals:16}, {name:"姜珂", num:"10", goals:11}, {name:"金辉", num:"81", goals:10}, {name:"艾海提", num:"83", goals:5}, {name:"刘洋", num:"29", goals:5}], assists: [{name:"姜珂", num:"10", assists:10}, {name:"潘磊", num:"94", assists:8}, {name:"金辉", num:"81", assists:6}, {name:"Steven Li", num:"58", assists:3}, {name:"吴从宝", num:"61", assists:3}], apps: [{name:"金辉", num:"81", apps:7}, {name:"潘磊", num:"94", apps:6}, {name:"张伟", num:"77", apps:5}, {name:"Steven Li", num:"58", apps:4}, {name:"胡磊", num:"91", apps:4}] },
@@ -2001,11 +2001,10 @@ const PLAYER_CHEMISTRY = {
   "Henry wan": {a2me:{name:"郁壮鸿",count:1}},
   "Herry": {a2me:{name:"姚魏",count:1},me2a:{name:"潘磊",count:1}},
   "Howard": {me2a:{name:"邱天乐",count:1}},
-  "JOE": {a2me:{name:"姜珂",count:1},me2a:{name:"陶骏",count:1}},
+  "JOE": {a2me:{name:"姜珂",count:3},me2a:{name:"姜珂",count:3}},
   "Janus": {a2me:{name:"姜珂",count:1},me2a:{name:"金辉",count:2}},
   "Jimmy": {a2me:{name:"姜珂",count:5},me2a:{name:"姜珂",count:2}},
   "Jimmy楚": {a2me:{name:"姜珂",count:6},me2a:{name:"黄天翔",count:3}},
-  "Joe": {a2me:{name:"姜珂",count:2},me2a:{name:"姜珂",count:3}},
   "KAKA": {a2me:{name:"倪海",count:1},me2a:{name:"姜珂",count:2}},
   "KK": {a2me:{name:"姜珂",count:1},me2a:{name:"鲍梁剑",count:1}},
   "Kk的朋友：刚刚": {a2me:{name:"姜珂",count:1},me2a:{name:"潘磊",count:1}},
@@ -2092,7 +2091,7 @@ const PLAYER_CHEMISTRY = {
   "喀麦隆OLLY": {me2a:{name:"姜珂",count:3}},
   "国泰君安68号": {a2me:{name:"姜珂",count:1},me2a:{name:"姜珂",count:1}},
   "圣托尔多": {me2a:{name:"吴从宝",count:1}},
-  "夏泉": {a2me:{name:"姜珂",count:2},me2a:{name:"大宝",count:4},bestP:{name:"曹峰",apps:30,wins:12,rate:0.400},worstP:{name:"曹峰",apps:30,wins:12,rate:0.400}},
+  "夏泉": {a2me:{name:"姜珂",count:2},me2a:{name:"大宝",count:4},bestP:{name:"曹峰",apps:30,wins:12,rate:0.400}},
   "夏浩": {a2me:{name:"曹峰",count:1},me2a:{name:"黄天翔",count:1},bestP:{name:"姜珂",apps:53,wins:38,rate:0.717},worstP:{name:"彭利平",apps:31,wins:9,rate:0.290}},
   "外援": {a2me:{name:"严俊",count:1},me2a:{name:"Andy",count:1}},
   "外援-很壮的哥们": {me2a:{name:"段晓敏",count:1}},
@@ -2150,7 +2149,7 @@ const PLAYER_CHEMISTRY = {
   "张毅达": {a2me:{name:"姜珂",count:4},me2a:{name:"姜珂",count:1}},
   "张磊": {a2me:{name:"傅于",count:1}},
   "强仔": {me2a:{name:"姜珂",count:1}},
-  "强尼二世": {a2me:{name:"姜珂",count:10},me2a:{name:"潘磊",count:2},bestP:{name:"严俊",apps:38,wins:17,rate:0.447},worstP:{name:"严俊",apps:38,wins:17,rate:0.447}},
+  "强尼二世": {a2me:{name:"姜珂",count:10},me2a:{name:"潘磊",count:2},bestP:{name:"严俊",apps:38,wins:17,rate:0.447}},
   "彭利平": {a2me:{name:"阳阳阳",count:1},me2a:{name:"姜珂",count:5},bestP:{name:"杨坤",apps:37,wins:25,rate:0.676},worstP:{name:"鲍澜云",apps:47,wins:13,rate:0.277}},
   "彭钢": {a2me:{name:"姜珂",count:1},me2a:{name:"姜珂",count:4},bestP:{name:"姜珂",apps:39,wins:20,rate:0.513},worstP:{name:"老徐",apps:43,wins:12,rate:0.279}},
   "彭飞": {a2me:{name:"金辉",count:2},me2a:{name:"季贝赢",count:3}},
@@ -2181,14 +2180,14 @@ const PLAYER_CHEMISTRY = {
   "朱寿卿": {a2me:{name:"季贝赢",count:1},me2a:{name:"姜珂",count:6}},
   "朱帅": {a2me:{name:"曹胜飞",count:1},me2a:{name:"潘磊",count:2}},
   "朱晓程": {a2me:{name:"孔垂圣",count:2},me2a:{name:"顾嘉树",count:1}},
-  "朱艺华": {a2me:{name:"老徐",count:1},me2a:{name:"老徐",count:1},bestP:{name:"老徐",apps:31,wins:8,rate:0.258},worstP:{name:"老徐",apps:31,wins:8,rate:0.258}},
+  "朱艺华": {a2me:{name:"老徐",count:1},me2a:{name:"老徐",count:1},bestP:{name:"老徐",apps:31,wins:8,rate:0.258}},
   "李以仓": {me2a:{name:"金辉",count:1}},
   "李伟": {a2me:{name:"薛峰",count:1}},
   "李俊": {a2me:{name:"张一君",count:1},me2a:{name:"李渊",count:2}},
   "李安": {me2a:{name:"对手",count:1}},
   "李志虹": {me2a:{name:"潘磊",count:2}},
   "李成杰": {a2me:{name:"季贝赢",count:1},me2a:{name:"姜珂",count:2}},
-  "李浩": {a2me:{name:"老徐",count:2},me2a:{name:"金辉",count:4},bestP:{name:"老徐",apps:31,wins:10,rate:0.323},worstP:{name:"老徐",apps:31,wins:10,rate:0.323}},
+  "李浩": {a2me:{name:"老徐",count:2},me2a:{name:"金辉",count:4},bestP:{name:"老徐",apps:31,wins:10,rate:0.323}},
   "李渊": {a2me:{name:"姜珂",count:6},me2a:{name:"姜珂",count:10},bestP:{name:"黄纲",apps:32,wins:15,rate:0.469},worstP:{name:"曹峰",apps:31,wins:8,rate:0.258}},
   "李自然": {a2me:{name:"姜珂",count:3},me2a:{name:"潘磊",count:2}},
   "李蒙簃": {a2me:{name:"季贝赢",count:1},me2a:{name:"季贝赢",count:3}},
@@ -2225,7 +2224,7 @@ const PLAYER_CHEMISTRY = {
   "王伟杰朋友": {a2me:{name:"徐亮",count:1},me2a:{name:"盛建中",count:1}},
   "王俊琦": {a2me:{name:"陶骏",count:1},me2a:{name:"孙鸣杰",count:1}},
   "王刚": {a2me:{name:"夏泉",count:1},me2a:{name:"王季",count:3}},
-  "王季": {a2me:{name:"姜珂",count:13},me2a:{name:"姜珂",count:5},bestP:{name:"老徐",apps:38,wins:6,rate:0.158},worstP:{name:"老徐",apps:38,wins:6,rate:0.158}},
+  "王季": {a2me:{name:"姜珂",count:13},me2a:{name:"姜珂",count:5},bestP:{name:"老徐",apps:38,wins:6,rate:0.158}},
   "王小二蛮": {a2me:{name:"潘磊",count:1},me2a:{name:"鲁尼",count:1}},
   "王文旭": {me2a:{name:"小妹",count:1}},
   "王新尧": {a2me:{name:"姜珂",count:3},me2a:{name:"孙鸣杰",count:1}},
@@ -2262,7 +2261,7 @@ const PLAYER_CHEMISTRY = {
   "艾教练带来的76年老哥": {me2a:{name:"新人J",count:1}},
   "艾教练带来的短发姑娘": {a2me:{name:"喀什9号",count:2},me2a:{name:"喀什9号",count:1}},
   "艾教练带来的长发姑娘": {a2me:{name:"喀什9号",count:1}},
-  "艾海提": {a2me:{name:"姜珂",count:40},me2a:{name:"姜珂",count:28},bestP:{name:"姜珂",apps:30,wins:26,rate:0.867},worstP:{name:"姜珂",apps:30,wins:26,rate:0.867}},
+  "艾海提": {a2me:{name:"姜珂",count:40},me2a:{name:"姜珂",count:28},bestP:{name:"姜珂",apps:30,wins:26,rate:0.867}},
   "艾海提青训教练": {a2me:{name:"倪海",count:1},me2a:{name:"姜珂",count:1}},
   "花蝴蝶": {me2a:{name:"张毅达",count:1}},
   "苏比": {a2me:{name:"彭飞",count:1},me2a:{name:"喀什9号",count:3}},
@@ -2273,7 +2272,7 @@ const PLAYER_CHEMISTRY = {
   "蒋光太": {me2a:{name:"徐亮",count:1}},
   "蒋家平": {a2me:{name:"姜珂",count:4},me2a:{name:"陶骏",count:1}},
   "薛伟": {a2me:{name:"姜珂",count:2},me2a:{name:"养乐多",count:1}},
-  "薛峰": {a2me:{name:"倪海",count:2},me2a:{name:"金辉",count:3},bestP:{name:"金辉",apps:32,wins:13,rate:0.406},worstP:{name:"金辉",apps:32,wins:13,rate:0.406}},
+  "薛峰": {a2me:{name:"倪海",count:2},me2a:{name:"金辉",count:3},bestP:{name:"金辉",apps:32,wins:13,rate:0.406}},
   "薛峰朋友": {a2me:{name:"姜珂",count:4},me2a:{name:"杨坤",count:1}},
   "薛总朋友鹿倪": {me2a:{name:"姜珂",count:3}},
   "虞虎杰": {a2me:{name:"姜珂",count:14},me2a:{name:"姜珂",count:4}},
@@ -2286,7 +2285,7 @@ const PLAYER_CHEMISTRY = {
   "赵超雄": {a2me:{name:"姜珂",count:14},me2a:{name:"姜珂",count:2}},
   "踢法像李渊的教练": {me2a:{name:"季贝赢",count:1}},
   "迪力": {a2me:{name:"姜珂",count:3},me2a:{name:"姜珂",count:2}},
-  "邓涛": {a2me:{name:"姜珂",count:7},me2a:{name:"金辉",count:8},bestP:{name:"金辉",apps:31,wins:10,rate:0.323},worstP:{name:"金辉",apps:31,wins:10,rate:0.323}},
+  "邓涛": {a2me:{name:"姜珂",count:7},me2a:{name:"金辉",count:8},bestP:{name:"金辉",apps:31,wins:10,rate:0.323}},
   "邱凯奇": {a2me:{name:"艾海提",count:1},me2a:{name:"潘磊",count:1}},
   "邱凯奇的朋友will": {a2me:{name:"邱凯奇的朋友大伟",count:1},me2a:{name:"潘磊",count:1}},
   "邱凯奇的朋友大伟": {me2a:{name:"邱凯奇的朋友will",count:1}},
@@ -2295,7 +2294,7 @@ const PLAYER_CHEMISTRY = {
   "金建明": {a2me:{name:"胥京坤",count:1},me2a:{name:"姜珂",count:2},bestP:{name:"姜珂",apps:30,wins:26,rate:0.867},worstP:{name:"金辉",apps:35,wins:21,rate:0.600}},
   "金辉": {a2me:{name:"姜珂",count:182},me2a:{name:"姜珂",count:70},bestP:{name:"姜珂",apps:150,wins:106,rate:0.707},worstP:{name:"邓涛",apps:31,wins:10,rate:0.323}},
   "金辉干儿子": {a2me:{name:"曹胜飞",count:1}},
-  "金鑫": {a2me:{name:"黄天翔",count:7},me2a:{name:"黄天翔",count:29},bestP:{name:"黄天翔",apps:32,wins:16,rate:0.500},worstP:{name:"黄天翔",apps:32,wins:16,rate:0.500}},
+  "金鑫": {a2me:{name:"黄天翔",count:7},me2a:{name:"黄天翔",count:29},bestP:{name:"黄天翔",apps:32,wins:16,rate:0.500}},
   "钱建标": {me2a:{name:"徐亮",count:2}},
   "长头发边锋": {a2me:{name:"潘磊",count:1},me2a:{name:"姜珂",count:1}},
   "闵栋": {me2a:{name:"张伟",count:1}},
@@ -2311,7 +2310,7 @@ const PLAYER_CHEMISTRY = {
   "陈云伟": {me2a:{name:"黄天翔",count:1}},
   "陈国梁": {a2me:{name:"姜珂",count:1}},
   "陈国樑": {me2a:{name:"姜珂",count:2}},
-  "陈彦孚": {a2me:{name:"姜珂",count:16},me2a:{name:"姜珂",count:11},bestP:{name:"曹峰",apps:35,wins:17,rate:0.486},worstP:{name:"曹峰",apps:35,wins:17,rate:0.486}},
+  "陈彦孚": {a2me:{name:"姜珂",count:16},me2a:{name:"姜珂",count:11},bestP:{name:"曹峰",apps:35,wins:17,rate:0.486}},
   "陈文博": {a2me:{name:"顾嘉树",count:1},me2a:{name:"黄纲",count:1}},
   "陈晋一": {a2me:{name:"陶陶的大金链子同学",count:1}},
   "陈烨": {me2a:{name:"金辉",count:2}},
@@ -2337,7 +2336,7 @@ const PLAYER_CHEMISTRY = {
   "鲍梁剑": {a2me:{name:"金辉",count:12},me2a:{name:"姜珂",count:18},bestP:{name:"姜珂",apps:75,wins:46,rate:0.613},worstP:{name:"鲁尼",apps:34,wins:7,rate:0.206}},
   "鲍澜云": {a2me:{name:"倪海",count:4},me2a:{name:"姜珂",count:4},bestP:{name:"姜珂",apps:55,wins:37,rate:0.673},worstP:{name:"鲁尼",apps:33,wins:7,rate:0.212}},
   "麦超": {a2me:{name:"梁同福",count:1},me2a:{name:"姜珂",count:2},bestP:{name:"刘洋",apps:32,wins:20,rate:0.625},worstP:{name:"鲍梁剑",apps:51,wins:13,rate:0.255}},
-  "黄天翔": {a2me:{name:"姜珂",count:44},me2a:{name:"姜珂",count:15},bestP:{name:"潘磊",apps:36,wins:18,rate:0.500},worstP:{name:"潘磊",apps:36,wins:18,rate:0.500}},
+  "黄天翔": {a2me:{name:"姜珂",count:44},me2a:{name:"姜珂",count:15},bestP:{name:"潘磊",apps:36,wins:18,rate:0.500}},
   "黄纲": {a2me:{name:"姜珂",count:8},me2a:{name:"姜珂",count:23},bestP:{name:"姜珂",apps:81,wins:56,rate:0.691},worstP:{name:"陆晓巍",apps:30,wins:8,rate:0.267}},
   "黄纲朋友": {a2me:{name:"虞虎杰",count:1}},
   "黄队69号": {a2me:{name:"李浩",count:1}},

diff --git a/components.jsx b/components.jsx
@@ -589,7 +589,15 @@ function PlayersCarousel({ onPlayerClick }) {
     ...PLAYERS,
     ...Object.values(PLAYER_LOOKUP || {}),
   ].filter(p => p.photo)
-   .filter((p, i, arr) => arr.findIndex(x => x.name === p.name) === i);
+   .filter((p, i, arr) => arr.findIndex(x => x.name === p.name) === i)
+   // 按出场数降序排列，10号姜珂置于最后
+   .sort((a, b) => {
+     const aIs10 = a.num === 10 || a.num === '10';
+     const bIs10 = b.num === 10 || b.num === '10';
+     if (aIs10) return 1;
+     if (bIs10) return -1;
+     return (b.apps || 0) - (a.apps || 0);
+   });
 
   const PER_PAGE = 8;
   const pages = [];
@@ -856,7 +864,7 @@ function PlayerModal({ player, onClose, onPlayerClick, onOpenDNA }) {
               chem.a2me  && { icon: '🎯', label: '助攻我最多', name: chem.a2me.name,  sub: `${chem.a2me.count} 次` },
               chem.me2a  && { icon: '👟', label: '我助攻最多', name: chem.me2a.name,  sub: `${chem.me2a.count} 次` },
               chem.bestP && { icon: '🔥', label: '共同出场胜率最高', name: chem.bestP.name, sub: `${(chem.bestP.rate*100).toFixed(0)}% · ${chem.bestP.apps}场` },
-              chem.worstP && { icon: '❄️', label: '共同出场胜率最低', name: chem.worstP.name, sub: `${(chem.worstP.rate*100).toFixed(0)}% · ${chem.worstP.apps}场` },
+              chem.worstP && chem.worstP.name !== (chem.bestP && chem.bestP.name) && { icon: '❄️', label: '共同出场胜率最低', name: chem.worstP.name, sub: `${(chem.worstP.rate*100).toFixed(0)}% · ${chem.worstP.apps}场` },
             ].filter(Boolean);
             if (!rows.length) return null;
             return (

diff --git a/index.html b/index.html
@@ -15,8 +15,8 @@
 <script src="https://unpkg.com/react-dom@18.3.1/umd/react-dom.development.js" crossorigin="anonymous"></script>
 <script src="https://unpkg.com/@babel/standalone@7.29.0/babel.min.js" crossorigin="anonymous"></script>
 
-<script type="text/babel" src="data.jsx?v=2026060618"></script>
-<script type="text/babel" src="components.jsx?v=2026060618"></script>
-<script type="text/babel" src="app.jsx?v=2026060618"></script>
+<script type="text/babel" src="data.jsx?v=2026061001"></script>
+<script type="text/babel" src="components.jsx?v=2026061001"></script>
+<script type="text/babel" src="app.jsx?v=2026061001"></script>
 </body>
 </html>